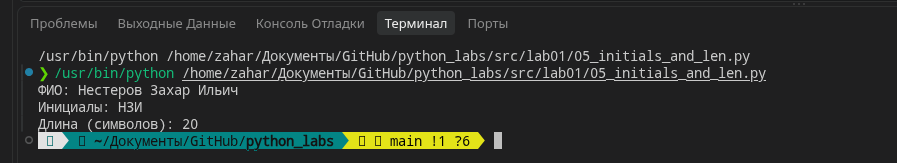
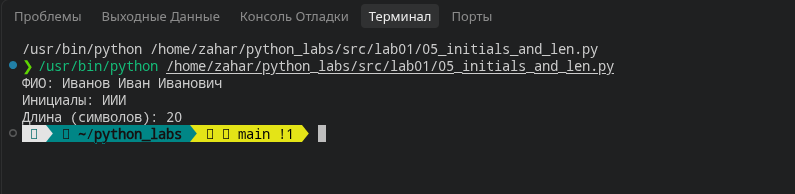
Neptune

Changed region(s): [[0.0, 0.2147, 0.8755, 0.9202], [0.0, 0.0613, 0.5736, 0.184], [0.5736, 0.0613, 0.634, 0.1227]]

diff --git a/src/lab01/06_ex.py b/src/lab01/06_ex.py
@@ -1,9 +1,9 @@
-N = int(input("Кол-во участников: "))
+N = int(input("in_1: "))
 N1 = N
 k = 0
 while N > 0 :
-    s1 = input().split()
+    s1 = input(f'in_{N1-N+2}: ').split()
     if s1[-1] == 'True':
         k +=1
     N = N - 1
-print(k, N1-k)
+print("out:", k, N1-k)

diff --git a/src/lab01/README.md b/src/lab01/README.md
@@ -1,29 +1,155 @@
 # ЛР1 - Ввод/вывод и форматирование
-##задание 1
-Ввод имени и возраста, вывод через f строку 
-![задание 1](../../images/lab01/01_greeting.png) 
 
-##задание 2
-Ввод 2 чисел + замена запятой на точку (для питона). Вывод через f строку
-![задание 2](../../images/lab01/02_sum_avg.png)
+## Задание 1
 
-##задание 3
-Ввод цены скидки и ндс далее расчет по формулам из условия + вывод через f строку с округлением до 2 символов после запятой
-![задание 3](../../images/lab01/03_discount_vat.png)
+### Код
 
-##задание 4
-Ввод минут -> кол-во часов = целочисленное деление на 60, кол-во минут = остаток от деления на 60
-![задание 4](../../images/lab01/04_minutes_to_hhmm.png)
+```python
+name = input("Имя: ")
+age = int(input("Возраст: "))
+print(f"Привет, {name}! Через год тебе будет {age + 1}.")
+```
 
-##задание 5
-Ввод ФИО. Далее разбиение на 3 слова, соответственно длина это длина 3 слов + 2 (2 пробела), инициалы это первый символ каждого слова
-![задание 5](../../images/lab01/05_initials_and_len.png)
+### Вывод
 
-##задание 6
-Ввод кол-ва участников затем цикл while, пока это кол-во не 0. Информация об участнике вводится как список, если последний элемент (булевое значение) True, то +1. 
-![задание 6](../../images/lab01/06_ex.png)
+![Вывод задания 1](../../images/lab01/01_greeting.png)
 
-##задание 7
-Вводится код, проходимся циклом for по каждой букве пока не найдем заглавную из спика AL, затем берем оставшееся слово и берем из него каждый 3 символ. складываем все символы (включая заглавную букву) в строку и выводим.
-![задание 7](../../images/lab01/07_ex.png)
+### Краткое описание
+
+Программа запрашивает имя и возраст пользователя, после чего выводит приветствие и возраст пользователя через год.
+
+## Задание 2
+
+### Код
+
+```python
+a = float(input("a: ").replace(",", "."))
+b = float(input("b: ").replace(",", "."))
+print(f"sum={a+b:.2f}; avg={(a+b)/2:.2f}")
+```
+
+### Вывод
+
+![Вывод задания 2](../../images/lab01/02_sum_avg.png)
+
+### Краткое описание
+
+Программа принимает два числа, допускает ввод дробной части через запятую, а затем выводит их сумму и среднее арифметическое с точностью до двух знаков после запятой.
+
+## Задание 3
+
+### Код
+
+```python
+price = float(input("Цена, ₽: "))
+discount = float(input("Скидка, %: "))
+vat = float(input("НДС, %: "))
+
+base = price * (1 - discount/100)
+vat_amount = base * (vat/100)
+total = base + vat_amount
+
+print(f"База после скидки:  {base:>10.2f} ₽")
+print(f"НДС                 {vat_amount:>10.2f} ₽")
+print(f"Итого к оплате:     {total:>10.2f} ₽")
+```
+
+### Вывод
+
+![Вывод задания 3](../../images/lab01/03_discount_vat.png)
+
+### Краткое описание
+
+Программа запрашивает цену, размер скидки и ставку НДС. Затем она вычисляет стоимость после скидки, сумму НДС и итоговую стоимость, форматируя денежные значения до двух знаков после запятой.
+
+## Задание 4
+
+### Код
+
+```python
+m = int(input("Минуты: "))
+print(f"{m // 60}:{m % 60:02d}")
+```
+
+### Вывод
+
+![Вывод задания 4](../../images/lab01/04_minutes_to_hhmm.png)
+
+### Краткое описание
+
+Программа переводит заданное количество минут в формат `часы:минуты`. Часы определяются целочисленным делением на 60, а минуты — остатком от деления.
+
+## Задание 5
+
+### Код
+
+```python
+FIO = input("ФИО: ")
+
+lenth = sum([len(i) for i in FIO.split()]) + 2
+initials = [i[0] for i in FIO.split()]
+
+print(f"Инициалы: {"".join(initials)}")
+print(f"Длина (символов): {lenth}")
+```
+
+### Вывод
+
+![Вывод задания 5](../../images/lab01/05_initials_and_len.png)
+
+### Краткое описание
+
+Программа разбивает введённые ФИО на отдельные слова, формирует инициалы из первых букв и определяет общую длину строки с учётом двух пробелов.
+
+## Задание 6
+
+### Код
+
+```python
+N = int(input("in_1: "))
+N1 = N
+k = 0
+while N > 0 :
+    s1 = input(f'in_{N1-N+2}: ').split()
+    if s1[-1] == 'True':
+        k +=1
+    N = N - 1
+print("out:", k, N1-k)
+```
+
+### Вывод
+
+![Вывод задания 6](../../images/lab01/06_ex.png)
+
+### Краткое описание
+
+Программа запрашивает количество участников и сведения о каждом из них. По последнему значению в каждой введённой строке она подсчитывает количество записей со значениями `True` и `False`.
+
+## Задание 7
+
+### Код
+
+```python
+s = input("in: ")
+AL = 'QWERTYUIOPASDFGHJKLZXCVBNM'
+k = ''
+for i in range(len(s)):
+    if s[i] in AL:
+        s = s[i:]
+        for i1 in range(len(s)):
+            if i1 % 3 == 0:
+                k += s[i1]
+
+        break
+
+print(f'out: {k}')
+```
+
+### Вывод
+
+![Вывод задания 7](../../images/lab01/07_ex.png)
+
+### Краткое описание
+
+Программа находит в строке первую заглавную латинскую букву, рассматривает остаток строки начиная с неё и формирует результат из каждого третьего символа.
 
